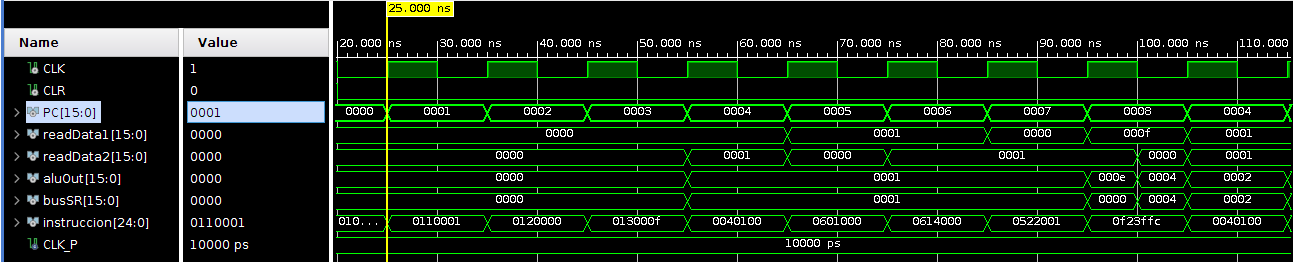
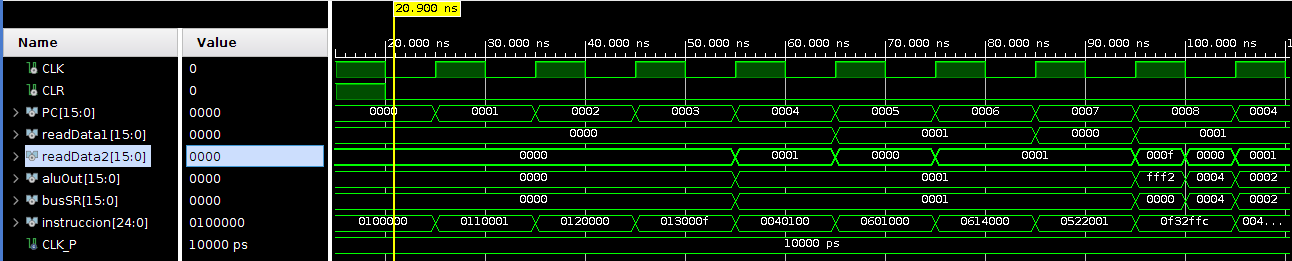
Proyecto parte 1 del procesador ESCOMips de la serie de Fibonacci

diff --git a/reportes/proyecto/reporteArquiProyecto1.tex b/reportes/proyecto/reporteArquiProyecto1.tex
@@ -108,7 +108,7 @@
     \hline
     PC & 0000 & 0001 & 0002 & 0003 & 0004 & 0005 & 0006 & 0007 & 0008 & 0004 & 0005 \\
     \hline
-    Instrucción & 0100000 & 0110001 & 0120000 & 013000f & 0040100 & 0601000 & 0614000 & 0522001 & 0f23ffc & 0040100 & 0601000 \\
+    Instrucción & 0100000 & 0110001 & 0120000 & 013000f & 0040100 & 0601000 & 0614000 & 0522001 & 0f32ffc & 0040100 & 0601000 \\
     \hline
     Read Data 1 & 0000 & 0000 & 0000 & 0000 & 0000 & 0001 & 0001 & 0000 & 0001 & 0001 & 0001\\
     \hline
